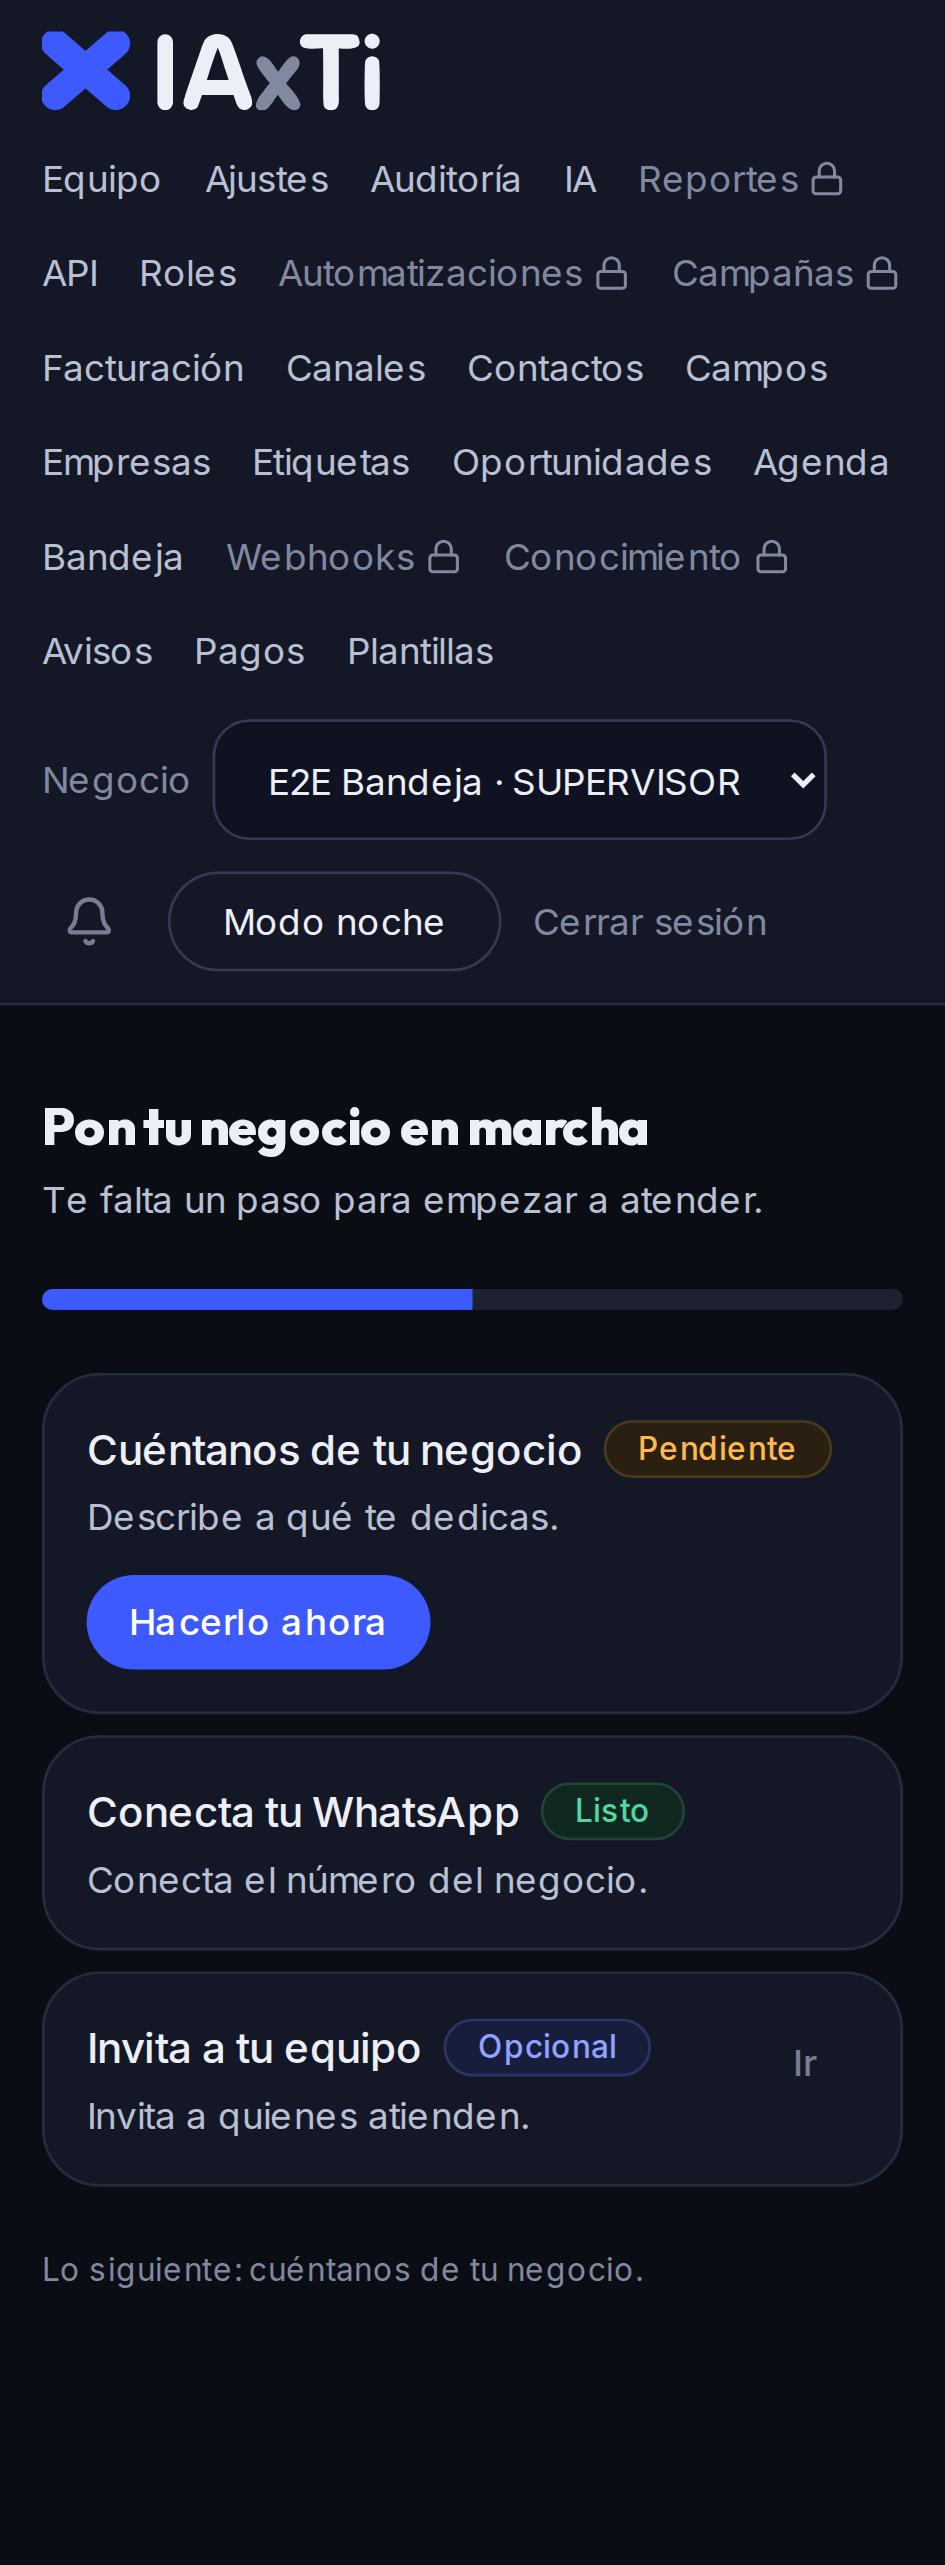
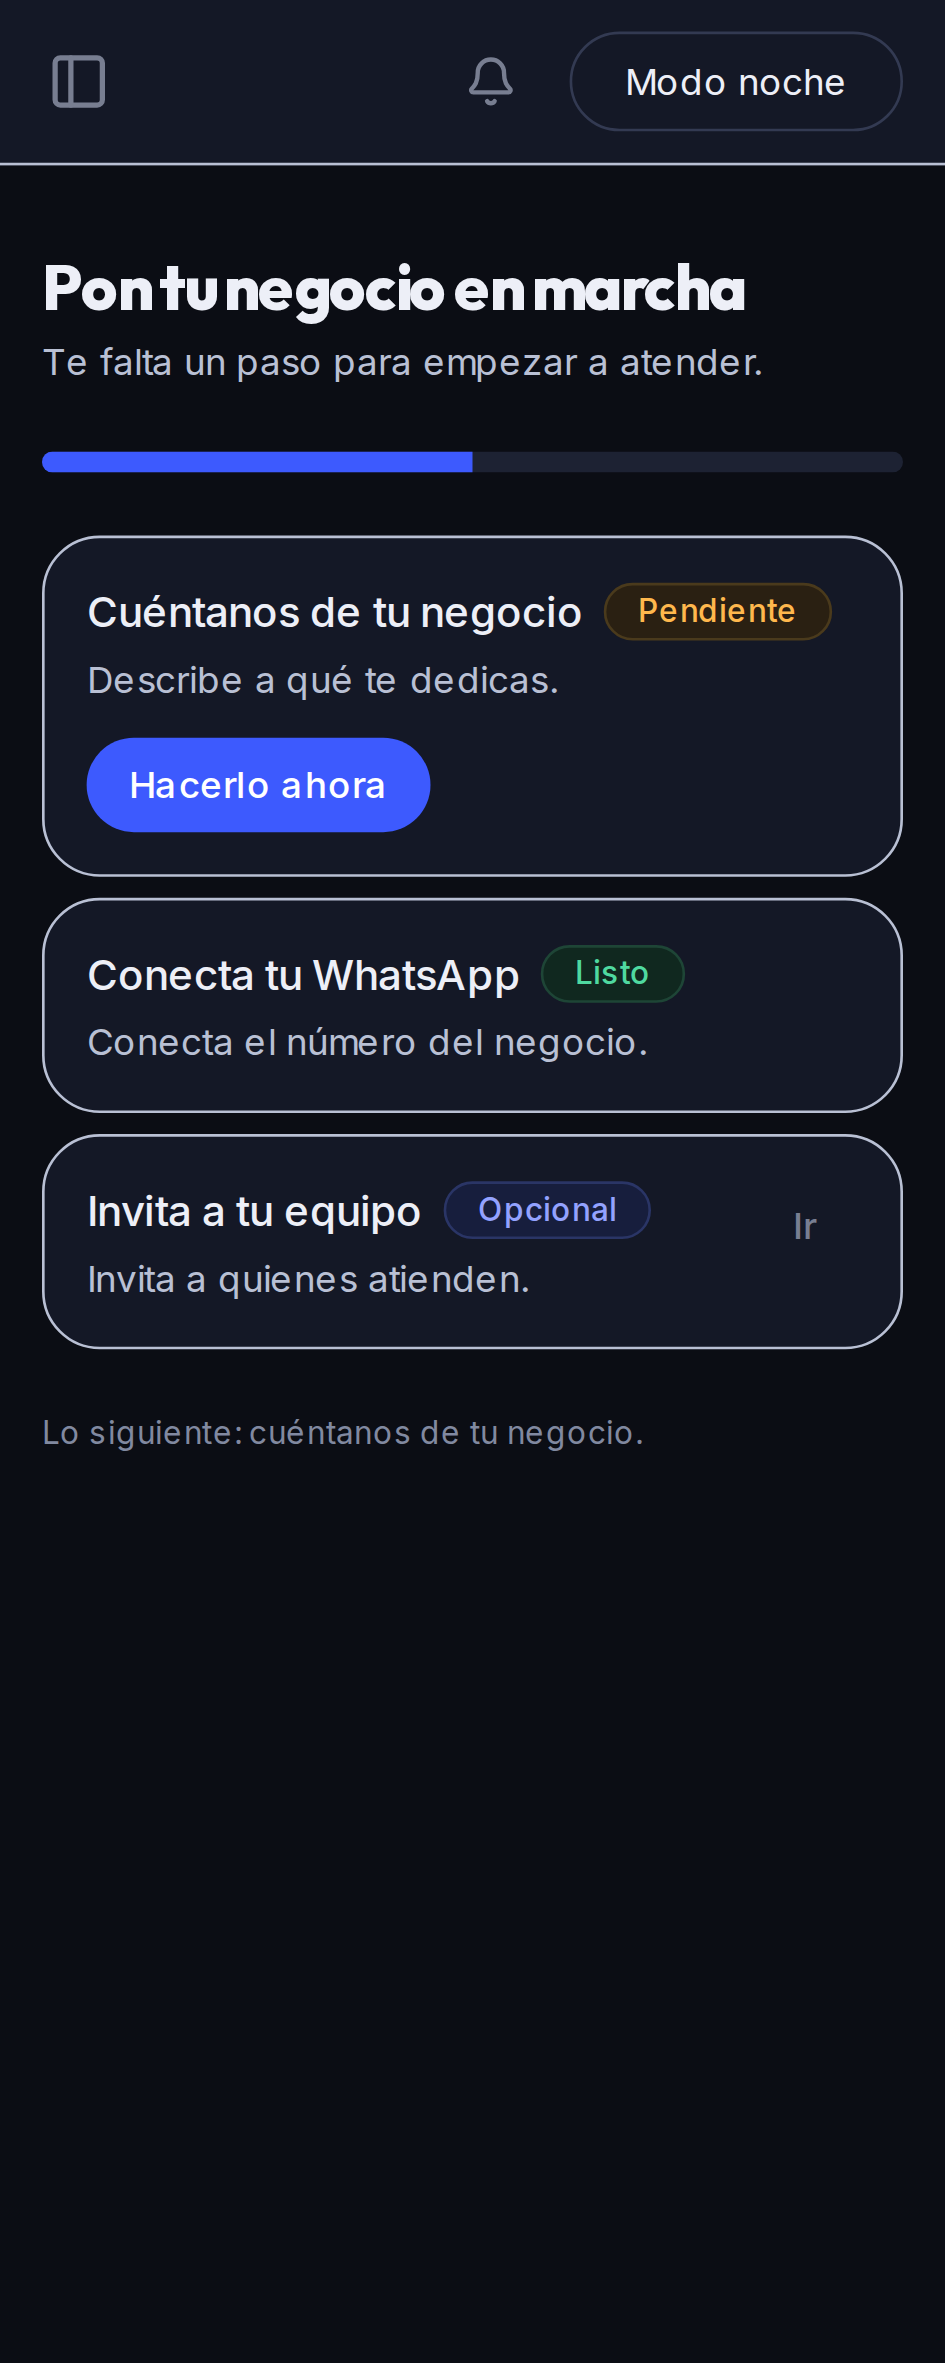
test(web): switch tenant through the new mobile sidebar

diff --git a/apps/web/e2e/estados-vacios.spec.ts b/apps/web/e2e/estados-vacios.spec.ts
@@ -116,7 +116,9 @@ test('cambiar de negocio descarta el progreso del anterior', async ({ page }) =>
   await page.route('**/v1/onboarding', (r) => r.fulfill({ json: r.request().headers()['x-tenant-id'] === segundo ? { ...progreso, siguiente: 'whatsapp_connected', pasos: progreso.pasos.map((p) => ({ ...p, hecho: p.id === 'configured' })) } : progreso }));
   await page.goto('/');
   await expect(page.getByText('Lo siguiente: cuéntanos de tu negocio.')).toBeVisible();
+  await page.getByRole('button', { name: 'Mostrar u ocultar el menú' }).click();
   await page.getByRole('combobox', { name: 'Negocio' }).selectOption(segundo);
+  await page.keyboard.press('Escape');
   await expect(page.getByText('Lo siguiente: conecta tu whatsapp.')).toBeVisible();
   await expect(page.getByText('Lo siguiente: cuéntanos de tu negocio.')).toHaveCount(0);
 });
